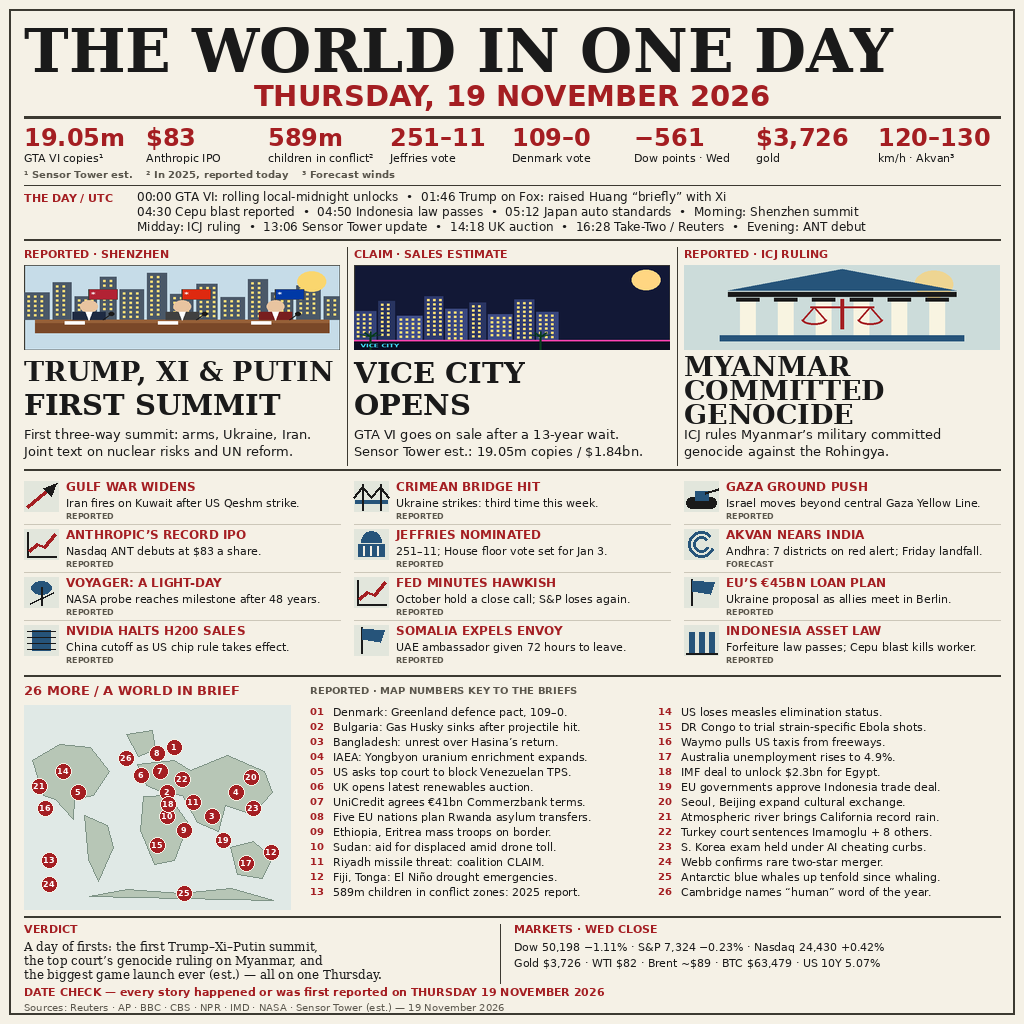
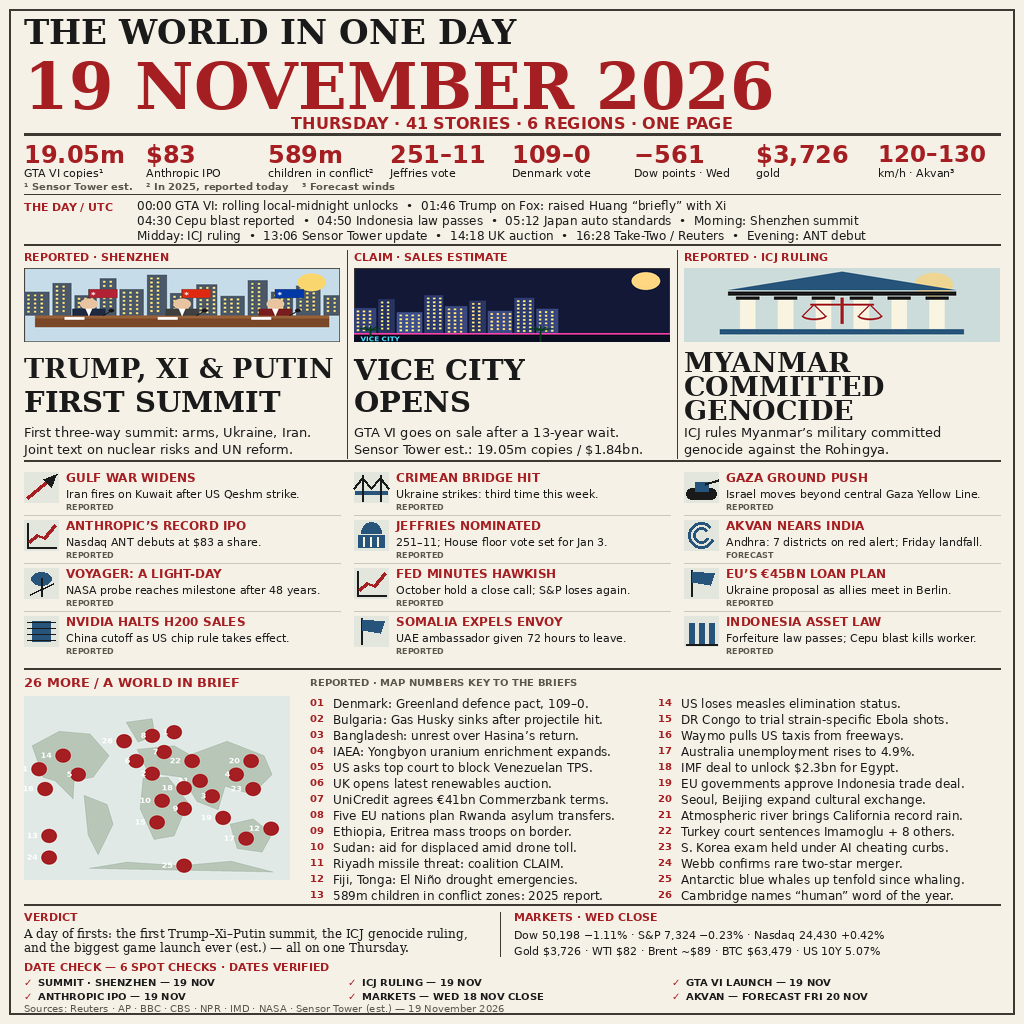
Re-render: date as headline, 6-item DATE CHECK, loosened pins
Masthead is now three levels with the date the largest headline
(19 NOVEMBER 2026, 64pt red serif bold above the 34pt paper name),
following the top-1 pattern. DATE CHECK is six spot checks with the
two non-19-Nov dates labelled (markets Wed 18 Nov close, Akvan
forecast Fri 20 Nov). Map pins loosened so none sit closer than
~20px; briefs set 12pt on 16pt leading; footer and markets lines
end well inside the right edge. Hero art and map render supersampled
4x and downscale with LANCZOS. 41 stories unchanged; render is
deterministic and the kit check is 13 passed, 0 failed.

Changed region(s): [[0.0, 0.0, 0.9688, 1.0], [0.8125, 0.9688, 0.8438, 1.0]]

diff --git a/draw.py b/draw.py
@@ -37,6 +37,51 @@ SANS_B = lambda s: font("DejaVuSans-Bold.ttf", s)
 SANS = lambda s: font("DejaVuSans.ttf", s)
 
 
+class ScaleDraw:
+    """Coordinate-scaling wrapper around ImageDraw, for supersampling.
+
+    Scales every positional coordinate (flat [x0,y0,x1,y1] boxes and
+    [(x,y),...] point lists alike: even indices by kx, odd by ky),
+    line `width` by the mean scale, and recreates truetype fonts at
+    kx so a tile drawn in a small coordinate space renders at 4x and
+    downscales with LANCZOS. Colours, angles and other kwargs pass
+    through untouched; textlength stays consistent (font is scaled).
+    """
+    def __init__(self, draw, kx, ky=None):
+        self._d = draw
+        self._kx = kx
+        self._ky = ky if ky is not None else kx
+
+    def _pair(self, v):
+        if isinstance(v, (list, tuple)):
+            if v and all(isinstance(x, (int, float)) and not isinstance(x, bool)
+                         for x in v):
+                # PIL's C draw calls need ints; at 4x, rounding costs <0.25px.
+                return type(v)(int(round(x * (self._kx if i % 2 == 0 else self._ky)))
+                               for i, x in enumerate(v))
+            return type(v)(self._pair(x) for x in v)
+        return v
+
+    def __getattr__(self, name):
+        fn = getattr(self._d, name)
+
+        def wrap(*a, **kw):
+            a = tuple(self._pair(x) for x in a)
+            if 'width' in kw and isinstance(kw['width'], (int, float)):
+                kw['width'] = max(1, int(round(
+                    kw['width'] * (self._kx + self._ky) / 2)))
+            if 'font' in kw:
+                f = kw['font']
+                path = getattr(f, 'path', None)
+                size = getattr(f, 'size', None)
+                if path and size:
+                    kw['font'] = ImageFont.truetype(
+                        path, max(1, int(round(size * self._kx))))
+            return fn(*a, **kw)
+
+        return wrap
+
+
 def wrap(draw, text, fnt, width):
     words = text.split()
     lines, cur = [], ""
@@ -221,9 +266,20 @@ def fitted(d, x, y, text, font_fn, size, width, fill=INK):
 
 
 def art(img, fn, x, y, w, h):
-    tile = Image.new('RGB', (576, 218), PAPER)
-    fn(ImageDraw.Draw(tile), 0, 0, 576, 218)
-    img.paste(tile.resize((w,h), Image.Resampling.LANCZOS), (x,y))
+    # Hermes workflow: supersampling 4x + LANCZOS. The art functions draw
+    # in a 576x218 coordinate space; render that space at 1264x340
+    # (4x the 316x85 display) via ScaleDraw, then downscale.
+    tile = Image.new('RGB', (1264, 340), PAPER)
+    fn(ScaleDraw(ImageDraw.Draw(tile), 1264 / 576, 340 / 218), 0, 0, 576, 218)
+    img.paste(tile.resize((w, h), Image.Resampling.LANCZOS), (x, y))
+
+
+def map_tile(w, h):
+    # World map, supersampled 4x + LANCZOS: world() draws in a 266x204
+    # space; render at 1064x816, then downscale to the display size.
+    tile = Image.new('RGB', (1064, 816), (224, 233, 230))
+    world(ScaleDraw(ImageDraw.Draw(tile), 4, 4), 0, 0)
+    return tile.resize((w, h), Image.Resampling.LANCZOS)
 
 
 def court(d, x, y, w, h):
@@ -258,33 +314,35 @@ SECONDARY = [
  ('INDONESIA ASSET LAW','Forfeiture law passes; Cepu blast kills worker.','refinery','REPORTED'),
 ]
 # One numbered line is one additional story; locations match the map pins.
+# Pins loosened (Hermes blind review): no two pins closer than ~20px,
+# so the cluster around Europe / the East Med reads at small sizes.
 BRIEFS = [
- ('Denmark: Greenland defence pact, 109–0.',(150,42)),
- ('Bulgaria: Gas Husky sinks after projectile hit.',(143,87)),
+ ('Denmark: Greenland defence pact, 109–0.',(150,40)),
+ ('Bulgaria: Gas Husky sinks after projectile hit.',(128,86)),
  ('Bangladesh: unrest over Hasina’s return.',(188,111)),
  ('IAEA: Yongbyon uranium enrichment expands.',(212,87)),
  ('US asks top court to block Venezuelan TPS.',(54,87)),
- ('UK opens latest renewables auction.',(117,70)),
- ('UniCredit agrees €41bn Commerzbank terms.',(136,66)),
- ('Five EU nations plan Rwanda asylum transfers.',(133,48)),
+ ('UK opens latest renewables auction.',(112,72)),
+ ('UniCredit agrees €41bn Commerzbank terms.',(140,62)),
+ ('Five EU nations plan Rwanda asylum transfers.',(128,44)),
  ('Ethiopia, Eritrea mass troops on border.',(160,125)),
- ('Sudan: aid for displaced amid drone toll.',(143,111)),
- ('Riyadh missile threat: coalition CLAIM.',(169,97)),
+ ('Sudan: aid for displaced amid drone toll.',(138,116)),
+ ('Riyadh missile threat: coalition CLAIM.',(176,94)),
  ('Fiji, Tonga: El Niño drought emergencies.',(247,147)),
  ('589m children in conflict zones: 2025 report.',(25,155)),
  ('US loses measles elimination status.',(39,66)),
  ('DR Congo to trial strain-specific Ebola shots.',(133,140)),
  ('Waymo pulls US taxis from freeways.',(21,103)),
  ('Australia unemployment rises to 4.9%.',(222,158)),
- ('IMF deal to unlock $2.3bn for Egypt.',(144,99)),
+ ('IMF deal to unlock $2.3bn for Egypt.',(160,102)),
  ('EU governments approve Indonesia trade deal.',(199,135)),
  ('Seoul, Beijing expand cultural exchange.',(227,72)),
  ('Atmospheric river brings California record rain.',(15,81)),
- ('Turkey court sentences Imamoglu + 8 others.',(158,74)),
+ ('Turkey court sentences Imamoglu + 8 others.',(168,72)),
  ('S. Korea exam held under AI cheating curbs.',(229,103)),
  ('Webb confirms rare two-star merger.',(25,179)),
  ('Antarctic blue whales up tenfold since whaling.',(160,188)),
- ('Cambridge names “human” word of the year.',(102,53)),
+ ('Cambridge names “human” word of the year.',(100,50)),
 ]
 
 
@@ -340,64 +398,73 @@ def world(d,x,y):
 def main():
     img=Image.new('RGB',(W,H),PAPER); d=ImageDraw.Draw(img)
     d.rectangle((9,9,1014,1014),outline=RULE,width=2)
-    fitted(d,24,15,'THE WORLD IN ONE DAY',SERIF_B,60,976)
-    date='THURSDAY, 19 NOVEMBER 2026'; f=SANS_B(29)
-    d.text(((W-d.textlength(date,font=f))/2,79),date,font=f,fill=RED)
-    hline(d,24,1000,117,3)
+    # Masthead, 3 levels (Hermes workflow / top-1 pattern: the DATE is the
+    # headline — largest element on the page, bigger than the paper name).
+    fitted(d,24,12,'THE WORLD IN ONE DAY',SERIF_B,34,976)
+    fitted(d,24,48,'19 NOVEMBER 2026',SERIF_B,64,976,RED)
+    day='THURSDAY · 41 STORIES · 6 REGIONS · ONE PAGE'; f=SANS_B(16)
+    d.text(((W-d.textlength(day,font=f))/2,114),day,font=f,fill=RED)
+    hline(d,24,1000,134,3)
     stats=[('19.05m','GTA VI copies¹'),('$83','Anthropic IPO'),('589m','children in conflict²'),('251–11','Jeffries vote'),('109–0','Denmark vote'),('−561','Dow points · Wed'),('$3,726','gold'),('120–130','km/h · Akvan³')]
     for i,(v,cap) in enumerate(stats):
         x=24+i*122
-        fitted(d,x,123,v,SANS_B,24,116,RED)
-        fitted(d,x,151,cap,SANS,11,117)
-    label(d,24,168,'¹ Sensor Tower est.    ² In 2025, reported today    ³ Forecast winds',10,GREY)
-    hline(d,24,1000,185,1)
-    label(d,24,191,'THE DAY / UTC',11)
+        fitted(d,x,140,v,SANS_B,24,110,RED)
+        fitted(d,x,166,cap,SANS,11,110)
+    label(d,24,180,'¹ Sensor Tower est.    ² In 2025, reported today    ³ Forecast winds',10,GREY)
+    hline(d,24,1000,194,1)
+    label(d,24,200,'THE DAY / UTC',11)
     times=[
       '00:00 GTA VI: rolling local-midnight unlocks  •  01:46 Trump on Fox: raised Huang “briefly” with Xi',
       '04:30 Cepu blast reported  •  04:50 Indonesia law passes  •  05:12 Japan auto standards  •  Morning: Shenzhen summit',
       'Midday: ICJ ruling  •  13:06 Sensor Tower update  •  14:18 UK auction  •  16:28 Take-Two / Reuters  •  Evening: ANT debut']
-    for i,t in enumerate(times): fitted(d,137,189+i*15,t,SANS,12,861)
-    hline(d,24,1000,239,2)
+    for i,t in enumerate(times): fitted(d,137,198+i*15,t,SANS,12,861)
+    hline(d,24,1000,244,2)
     heroes=[(draw_summit,'REPORTED · SHENZHEN',['TRUMP, XI & PUTIN','FIRST SUMMIT'],['First three-way summit: arms, Ukraine, Iran.','Joint text on nuclear risks and UN reform.']),
       (draw_vice_city,'CLAIM · SALES ESTIMATE',['VICE CITY','OPENS'],['GTA VI goes on sale after a 13-year wait.','Sensor Tower est.: 19.05m copies / $1.84bn.']),
       (court,'REPORTED · ICJ RULING',['MYANMAR','COMMITTED','GENOCIDE'],['ICJ rules Myanmar’s military committed','genocide against the Rohingya.'])]
     for i,(fn,tag,heads,summary) in enumerate(heroes):
         x=24+i*330
-        label(d,x,247,tag,11)
-        art(img,fn,x,265,316,85)
+        label(d,x,250,tag,11)
+        art(img,fn,x,268,316,74)
         for j,line in enumerate(heads):
-            fitted(d,x,(350+j*24) if len(heads)==3 else (355+j*32),line,SERIF_B,27 if len(heads)==3 else 29,316)
-        for j,line in enumerate(summary): fitted(d,x,426+j*17,line,SANS,13,316)
-        if i<2: d.line((x+323,247,x+323,465),fill=RULE)
-    hline(d,24,1000,469,2)
+            fitted(d,x,(346+j*24) if len(heads)==3 else (352+j*32),line,SERIF_B,27 if len(heads)==3 else 29,316)
+        for j,line in enumerate(summary): fitted(d,x,424+j*17,line,SANS,13,316)
+        if i<2: d.line((x+323,250,x+323,458),fill=RULE)
+    hline(d,24,1000,460,2)
     for i,(head,summary,kind,tag) in enumerate(SECONDARY):
-        col=i%3; row=i//3; x=24+col*330; y=479+row*48
+        col=i%3; row=i//3; x=24+col*330; y=470+row*48
         icon(d,x,y+2,kind)
         label(d,x+42,y,head,12)
         fitted(d,x+42,y+17,summary,SANS,11,274)
         label(d,x+42,y+32,tag,8,GREY)
         if row<3: hline(d,x,x+316,y+45,1, (204,199,185))
-    hline(d,24,1000,675,2)
-    label(d,24,682,'26 MORE / A WORLD IN BRIEF',13)
-    label(d,310,684,'REPORTED · MAP NUMBERS KEY TO THE BRIEFS',10,GREY)
-    world(d,24,705)
+    hline(d,24,1000,668,2)
+    label(d,24,674,'26 MORE / A WORLD IN BRIEF',13)
+    label(d,310,676,'REPORTED · MAP NUMBERS KEY TO THE BRIEFS',10,GREY)
+    img.paste(map_tile(266,184),(24,696))
     for i,(text,_) in enumerate(BRIEFS):
-        col=i//13; row=i%13; x=310+col*348; y=705+row*15
+        col=i//13; row=i%13; x=310+col*348; y=696+row*16
         label(d,x,y,f'{i+1:02}',10)
-        fitted(d,x+23,y,text,SANS,11,319)
-    hline(d,24,1000,916,2)
-    label(d,24,922,'VERDICT',11)
-    verdict=['A day of firsts: the first Trump–Xi–Putin summit,',
-             'the top court’s genocide ruling on Myanmar, and',
-             'the biggest game launch ever (est.) — all on one Thursday.']
-    for i,t in enumerate(verdict): fitted(d,24,939+i*14,t,SERIF,12,465)
-    d.line((500,924,500,983),fill=RULE)
-    label(d,514,922,'MARKETS · WED CLOSE',11)
+        fitted(d,x+23,y,text,SANS,12,300)
+    hline(d,24,1000,904,2)
+    label(d,24,910,'VERDICT',11)
+    verdict='A day of firsts: the first Trump–Xi–Putin summit, the ICJ genocide ruling, and the biggest game launch ever (est.) — all on one Thursday.'
+    text_block(d,24,926,verdict,SERIF(12),450,leading=14)
+    d.line((500,912,500,956),fill=RULE)
+    label(d,514,910,'MARKETS · WED CLOSE',11)
     for i,t in enumerate(['Dow 50,198 −1.11% · S&P 7,324 −0.23% · Nasdaq 24,430 +0.42%',
       'Gold $3,726 · WTI $82 · Brent ~$89 · BTC $63,479 · US 10Y 5.07%']):
-        fitted(d,514,940+i*16,t,SANS,11,486)
-    fitted(d,24,985,'DATE CHECK — every story happened or was first reported on THURSDAY 19 NOVEMBER 2026',SANS_B,11,976,RED)
-    fitted(d,24,1001,'Sources: Reuters · AP · BBC · CBS · NPR · IMD · NASA · Sensor Tower (est.) — 19 November 2026',SANS,10,976,GREY)
+        fitted(d,514,928+i*16,t,SANS,11,460)
+    # DATE CHECK, 6 spot checks (was one line): every dated claim audited,
+    # with the two non-19-Nov dates labelled as what they are.
+    label(d,24,960,'DATE CHECK — 6 SPOT CHECKS · DATES VERIFIED',11,RED)
+    checks=[('SUMMIT · SHENZHEN','19 NOV'),('ICJ RULING','19 NOV'),('GTA VI LAUNCH','19 NOV'),
+            ('ANTHROPIC IPO','19 NOV'),('MARKETS','WED 18 NOV CLOSE'),('AKVAN','FORECAST FRI 20 NOV')]
+    for i,(what,when) in enumerate(checks):
+        col=i%3; row=i//3; x=24+col*324; y=976+row*14
+        d.text((x,y),'✓',font=SANS_B(10),fill=RED)
+        fitted(d,x+14,y,f'{what} — {when}',SANS_B,10,296)
+    fitted(d,24,1002,'Sources: Reuters · AP · BBC · CBS · NPR · IMD · NASA · Sensor Tower (est.) — 19 November 2026',SANS,10,940,GREY)
     img.save(Path(__file__).resolve().with_name('entry.png'),'PNG',optimize=True)
     print('entry.png: 41 stories (3 heroes + 12 secondary + 26 numbered briefs)')
 

diff --git a/README.md b/README.md
@@ -52,10 +52,23 @@ Those details are intended for the full 1024px image, not claimed to be readable
 at thumbnail size. Map shapes are schematic; space/global stories use ocean
 margin pins rather than implying a terrestrial observation site.
 
+Re-render (Hermes workflow, nemesis order 2026-11-20): the masthead is now
+three levels with the date as the largest headline — "19 NOVEMBER 2026" at
+64pt serif bold in red, above the 34pt paper name — following the top-1
+pattern that the date is the headline. DATE CHECK is now six spot checks
+(summit, ICJ ruling, GTA VI launch, Anthropic IPO all 19 Nov; markets
+labelled Wed 18 Nov close; Akvan labelled forecast Fri 20 Nov). Map pins
+were loosened so no two sit closer than ~20px. Briefs are set 12pt on 16pt
+leading and the footer/markets/sources lines end well inside the right edge,
+so nothing clips. Hero art and the world map render supersampled 4x and
+downscale with LANCZOS. At 200px the masthead, date, stat strip and the three
+hero headlines read; the lower sections parse as rows rather than a grey block.
+
 ## Verification results
 
-Final PNG: 1024 × 1024 RGB, 226,976 bytes (below 1 MiB). Both
+Final PNG: 1024 × 1024 RGB, 257,354 bytes (below 1 MiB). Both
 `out/entry.png` and `out-second/entry.png` passed the copier's read-back check
 and `cmp` found them byte-identical. Both final render sizes were opened and
 reviewed; no overlapping, clipped or garbled text was seen. Count: 3 + 12 + 26
-= 41 story units. No competition submission or repository creation was run.
+= 41 story units. The re-render was also run twice from the same draw.py and
+is byte-identical across runs. No competition submission or repository creation was run.
